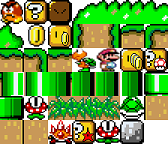
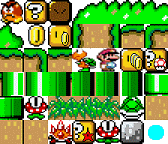
Add files via upload

diff --git a/smm/tilemaker.html b/smm/tilemaker.html
@@ -27,7 +27,7 @@ image.src = 'tiles.png';
 const tileWidth = 24,
   tileHeight = 24;
   const sourceWidth = tileWidth*7,
-  sourceHeight = tileHeight*6;
+  sourceHeight = tileHeight*7;
   document.getElementById("myCanvas").top = 0
 //   alert(confirm("Have you already level code ?"))
   have=confirm("Have you already level code ?")
@@ -100,6 +100,11 @@ image.addEventListener('load', redrawSource);
 	 	{
             gg= tiles[compteur].indexOf?tiles[compteur]:toid(tiles[compteur])
 	 		resultat += "'"+gg+"',"
+			if (gg=="finish")
+				{
+					x = j*32
+					y = (mapRows - i - 1)*32
+				}
 			//compteur += mapColumns
 			compteur++
 	 	}
@@ -120,7 +125,7 @@ image.addEventListener('load', redrawSource);
 		}
 */		resultat += "]"
          fin = "</textarea></form>"
-	 	document.getElementById('resultat').innerHTML = debut+resultat+"|"+backgroundlv+fin
+	 	document.getElementById('resultat').innerHTML = debut+resultat+"|"+backgroundlv+"&{x:"+x+";y:"+y+"}"+fin
 	 	document.cookie = "kb="+document.cookie.split("kb=")[1].split(";")[0]+";"
  	 	document.cookie = "editorresult="+document.code.code.value
 //         jj = new Function("document.getElementById('resultat').innerHTML.exec('copy')")
@@ -317,6 +322,7 @@ function toid(p)
 				tileid = p==38?'starbox':tileid
 				tileid = p==39?'staticplant':tileid
 				tileid = p==40?'stone':tileid
+				tileid = p==41?'finish':tileid
 				return tileid
 }
 

diff --git a/smm/Scripts/levels/makerlevel.js b/smm/Scripts/levels/makerlevel.js
@@ -13,7 +13,13 @@ function convertlevel()
 {
 document.write("<br><br>")
 var code = jsontable.split("|")[0]
-bg = jsontable.split("|")[1]
+bg = jsontable.split("|")[1].split("&")[0]
+// alert(bg)
+x = jsontable.split("x:")[1].split(";")[0]
+// alert(x)
+y = jsontable.split("y:")[1].split("}")[0]
+
+// alert(x)
 document.write("<script>jsontable = new Array();jsontable = "+code+"<\/script>")
 //document.write("here")
 //try{alert(jsontable[1][3])}catch(e){alert(e)}
@@ -46,4 +52,4 @@ else if (location.href.split("index.html?editor=")[1]=="2")
             var jsontable = document.cookie.split("editorresult=")[1]
     convertlevel()
     }
-document.write("<script>var definedLevels = [{data:"+result+"width: undefined,height: undefined,id: 0,background: "+bg+",}];try{for(n=0;n<definedLevels.length;n++){definedLevels[n].height = definedLevels[0].data[0].length + 1;definedLevels[n].width = definedLevels[0].data.length + 1;}}catch(e){alert(e)};//alert(definedLevels)</script>")
+document.write("<script>var definedLevels = [{data:"+result+"width: undefined,height: undefined,id: 0,background: "+bg+",x:"+x+",y:"+y+"}];try{for(n=0;n<definedLevels.length;n++){definedLevels[n].height = definedLevels[0].data[0].length + 1;definedLevels[n].width = definedLevels[0].data.length + 1;}}catch(e){alert(e)};//alert(definedLevels)</script>")

diff --git a/smm/Scripts/main.js b/smm/Scripts/main.js
@@ -1230,6 +1230,9 @@ var Mario = Hero.extend({
 
 		if(this.onground && this.x >= this.level.width - 128)
 			this.victory();
+		if (this.x >= definedLevels[0].x && this.x <= definedLevels[0].x + 4 && this.y == definedLevels[0].y)
+			 this.victory();
+			 // alert(x+","+y)
 	},
 	input: function(keys) {
 		this.fast = keys.accelerate;
